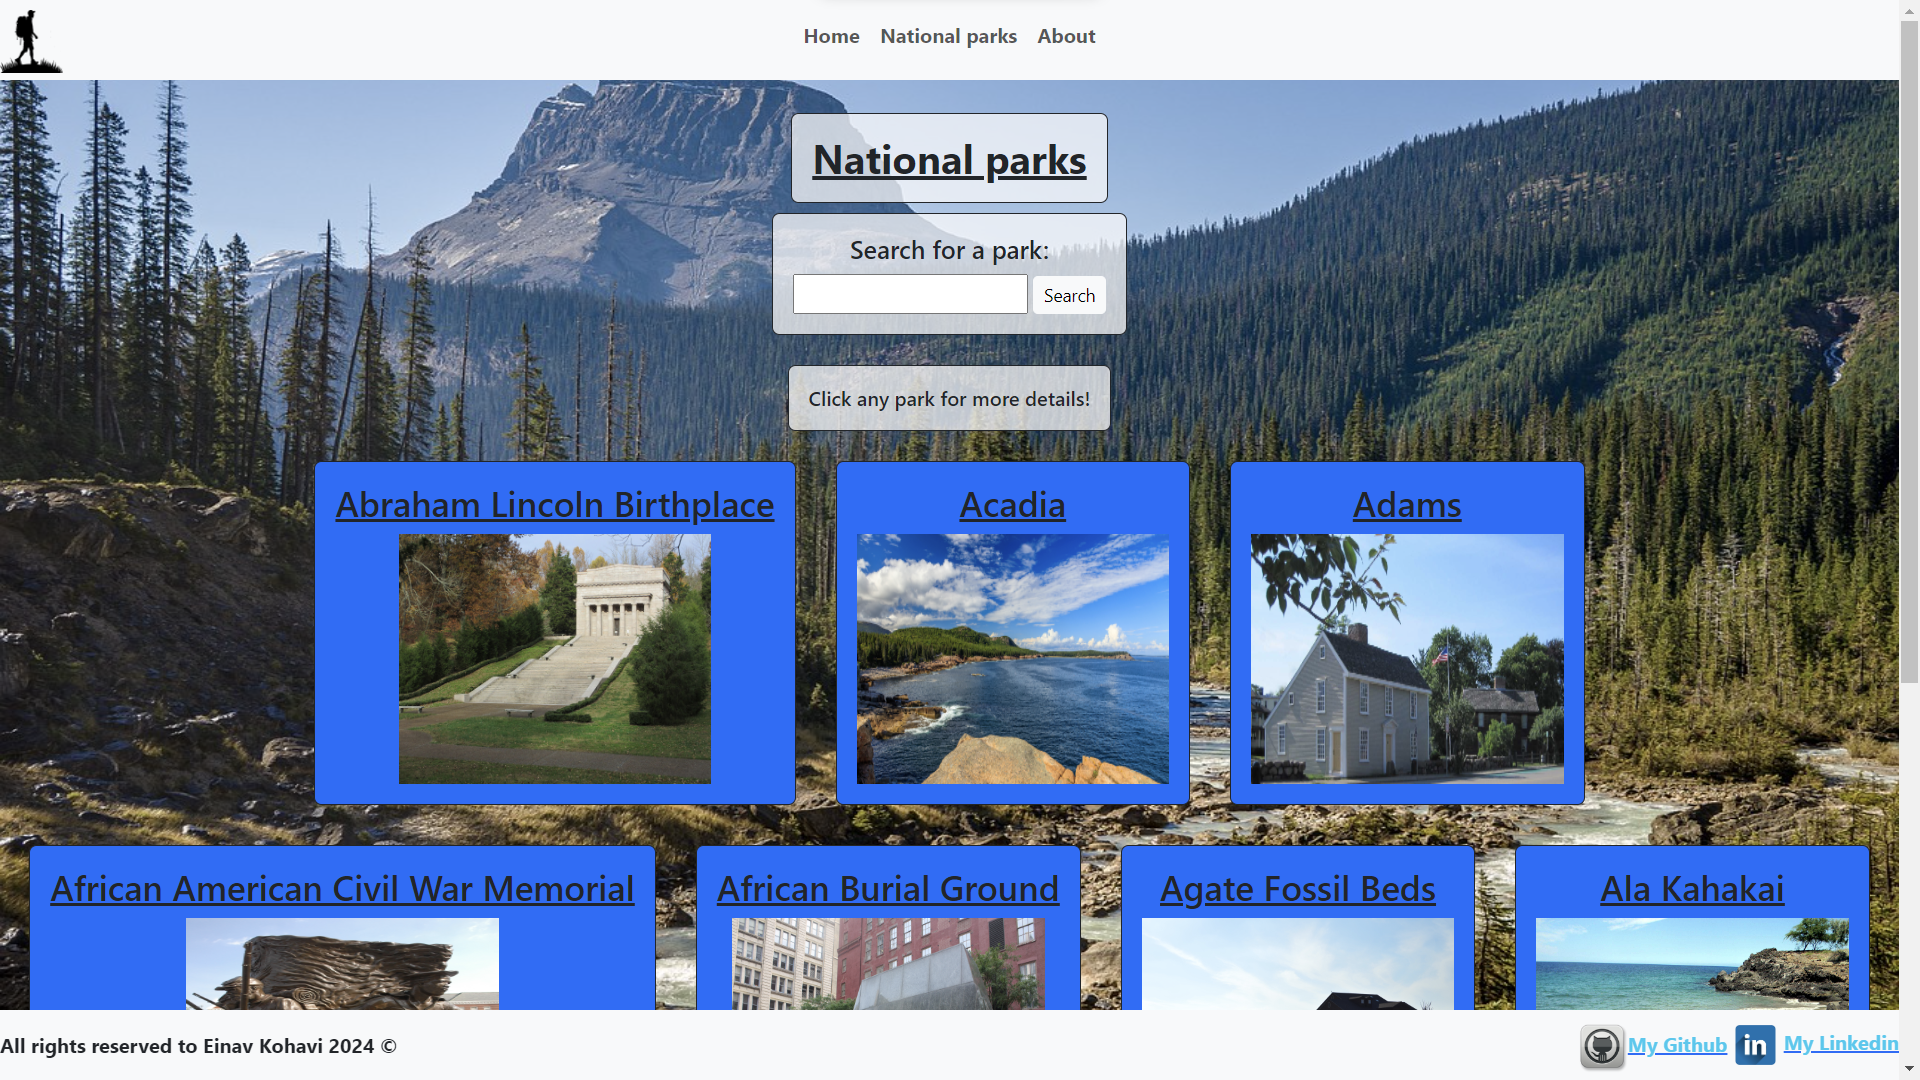
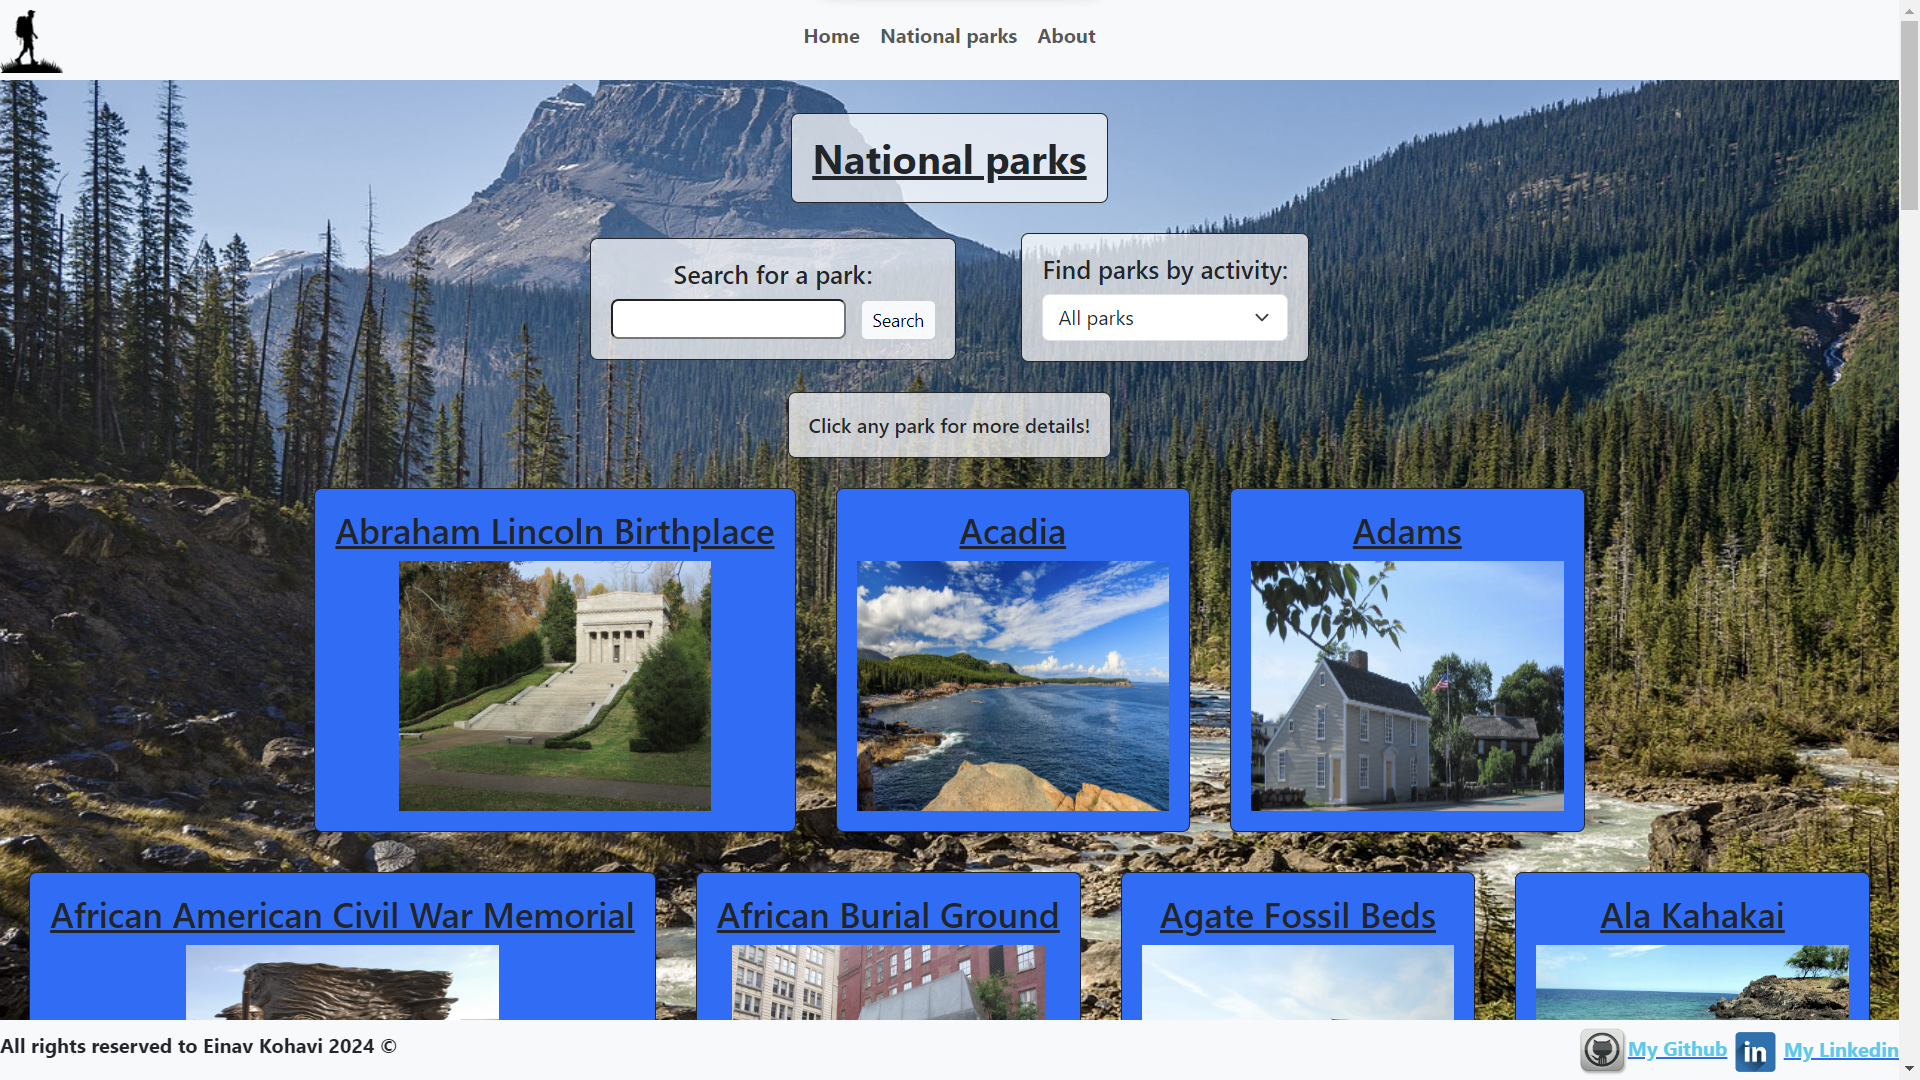
Modified readme with filterByActivity and added some bootstrap

Changed region(s): [[0.0, 0.1833, 1.0, 1.0], [0.9688, 0.1833, 1.0, 0.6417]]

diff --git a/src/Components/Parks.js b/src/Components/Parks.js
@@ -130,16 +130,21 @@ export default function Parks() {
       </h2>
       <br />
       <div className="align-center">
-        <div className="d-inline-block bg-light bg-opacity-75 border border-dark rounded px-3 py-2 pb-3 pt-3">
+        <div className="d-inline-block bg-warning bg-opacity-75 border border-dark rounded px-3 py-2 pb-3 pt-3">
           <h5>Search for a park: </h5>
-          <input type="text" id="parkSearch" className="rounded pb-1" />
+          <input
+            type="text"
+            id="parkSearch"
+            placeholder="Park name"
+            className="rounded pb-1"
+          />
           <span className="mx-1"> </span>
           <button className="btn btn-light btn-sm" onClick={searchParkByName}>
             Search
           </button>{" "}
         </div>
         <span className="mx-4"> </span>
-        <div className="d-inline-block bg-light bg-opacity-75 border border-dark rounded px-3 py-3 pb-3">
+        <div className="d-inline-block bg-warning bg-opacity-75 border border-dark rounded px-3 py-3 pb-3">
           <h5>Find parks by activity:</h5>
           <select
             id="activityFilter"
@@ -178,8 +183,8 @@ export default function Parks() {
         </div>
       ) : (
         <div className="text-center">
-          <h6 className="d-inline-block bg-light bg-opacity-75 border border-dark rounded px-3 py-3 pb-3">
-            Click any park for more details!
+          <h6 className="d-inline-block bg-warning bg-opacity-75 border border-dark rounded px-3 py-3 pb-3">
+            Click any park for more details
           </h6>
           <br />
           {parksArray.map((park) => (
@@ -188,15 +193,17 @@ export default function Parks() {
               className="d-inline-block bg-primary border border-dark rounded mx-3 my-3 px-3 py-3 vw-25"
             >
               <Link to={`${park.parkCode}`}>
-                <h3 className="text-dark">
-                  <u>{park.name}</u>
-                </h3>
-                <img
-                  src={park.images[0].url}
-                  alt={park.images[0].altText}
-                  width="250"
-                  height="200"
-                />
+                <div className="bg-light bg-opacity-75 border border-dark rounded px-3 py-3 pb-3">
+                  <h3 className="text-dark">
+                    <u>{park.name}</u>
+                  </h3>
+                  <img
+                    src={park.images[0].url}
+                    alt={park.images[0].altText}
+                    width="250"
+                    height="200"
+                  />
+                </div>
               </Link>
             </div>
           ))}

diff --git a/src/Components/Navbar.js b/src/Components/Navbar.js
@@ -5,37 +5,39 @@ export default function Navbar() {
   return (
     <div>
       <nav className="navbar navbar-expand bg-light fixed-top pb-0">
-        <ul className="navbar-nav mx-auto mb-2 mb-lg-0">
-          <li>
+        <div className="container-fluid">
+          <div className="navbar-header">
             <Link
               to="/"
-              className="navbar brand position-absolute top-0 start-0"
+              className="navbar-brand position-absolute top-0 start-0"
             >
               <img src="hiking.ico" alt="logo" width="50" height="50" />
             </Link>
-          </li>
-          <li>
-            <Link to="/" className="nav-link">
-              <p>
-                <b>Home</b>
-              </p>
-            </Link>
-          </li>
-          <li>
-            <Link to="parks" className="nav-link">
-              <p>
-                <b>National parks</b>
-              </p>
-            </Link>
-          </li>
-          <li>
-            <Link to="about" className="nav-link">
-              <p>
-                <b>About</b>
-              </p>
-            </Link>
-          </li>
-        </ul>
+          </div>
+          <ul className="navbar-nav mx-auto mb-2 mb-lg-0">
+            <li>
+              <Link to="/" className="nav-link">
+                <p>
+                  <b>Home</b>
+                </p>
+              </Link>
+            </li>
+            <li>
+              <Link to="parks" className="nav-link">
+                <p>
+                  <b>National parks</b>
+                </p>
+              </Link>
+            </li>
+            <li>
+              <Link to="about" className="nav-link">
+                <p>
+                  <b>About</b>
+                </p>
+              </Link>
+            </li>
+          </ul>
+        </div>
       </nav>
     </div>
   );

diff --git a/README.md b/README.md
@@ -84,10 +84,12 @@ Only contains a title div and an information div.
 
 ### National parks page
 
-This page presents objects fetched from the national parks API.<br>
+This page presents objects fetched from the national parks API (maximum number of parks to fetch is 50).<br>
 Each object is shown inside a container with the name and an image of the park.<br>
 The page also allows the user to search for a park by name with an input and a button.<br>
-The user can input the whole name, part of it, or even one letter.
+The user can input the whole name, part of it, or even one letter.<br>
+A select box to the right of the search by name elemets allows the user to select an activity.<br>
+Choosing an activity shows parks offering the selected activity.
 
 #### Functionality:
 
@@ -103,13 +105,25 @@ Finally, the `getApiData` function is called at the end of the `useEffect`.<br><
 
 ##### Search park by name:
 
-A `searchParkByName` function is introduced. This function collects the input value from the search input field.<br>
+`searchParkByName` function - This function collects the input value from the search input field.<br>
 If the input field is empty, it changes `parksArray` to contain all parks to show them.<br>
 Now, because the used API does not offer a search by name options, and only a search by park code, the function has to go over `allParks` array to find which park includes the input value given.<br>
 The function then collects the appropriate park park code (if no appropriate park is found, `parksArray` is set to be empty).<br>
 The function then uses the found park code and places it inside the url parameter to search by park code, and fetches from it.<br>
 Finally, sets `parksArray` to the fetched data.<br>
 This function is called when the `Search` button is clicked.<br><br>
+
+##### Filter parks by activity:
+
+`filterByActivity` function - Function to change `parksArray` to hold parks by selected activity.<br>
+The function collects the value of the activity select box.<br>
+It first of all empties `parksArray`, then checks what `parksArray` needs to hold based on select box value.<br>
+If the value in the select box is `all` (`All parks` select box text), sets `parksArray` to show all parks (sets `parksArray` to be the same as `allParks` array with the `setParksArray` useState).<br>
+Otherwise goes over `allParks` array with a fori loop.<br>
+Inside the fori loop, goes over each park's activities array and checks if any of the park's activities' names is the same as the select box value.<br>
+If the selected activity is found inside the park, adds it into `parksArray`.<br>
+The function to add the park into `parksArray` is done by `setParkArray` useState, and appends the current park into the previous state of `parksArray` like this: `setParksArray((prevParksArray) => [...prevParksArray, allParks[i]]);`, then breaks the inner loop to check the next park.<br>
+When the function ends, `parksArray` contains all relevant parks to be shown based of activity selected.<br><br>
 
 ##### Return:
 
@@ -118,9 +132,23 @@ If `parksArray` is empty, a div saying `No parks found` is returned.<br>
 Otherwise, the `map` function is used to go over `parksArray` and show all parks currently inside it.<br>
 Each park is displayed as a seperate div, and all elements inside it are wrapped with a `Link` that redirects to the `ParkDetails` component of the current park by using it's park code inside the url path.
 
-#### Image:
+#### Images:
 
-![Parks Page](./public/Parks.png "Parks page - API objects")
+##### Showing all parks - 50 parks is maximum
+
+![Parks Page](./public/Parks.png "Parks page - All parks")
+
+---
+
+##### Search park by name
+
+![Search Park by Name](./public/ParkByName.png "Parks page - Park found by name")
+
+---
+
+##### Filter parks by activity
+
+![Filter Parks by Activity](./public/ParksByActivity.png "Parks page - Parks found by activity (Horseback Riding)")
 
 ---
 
